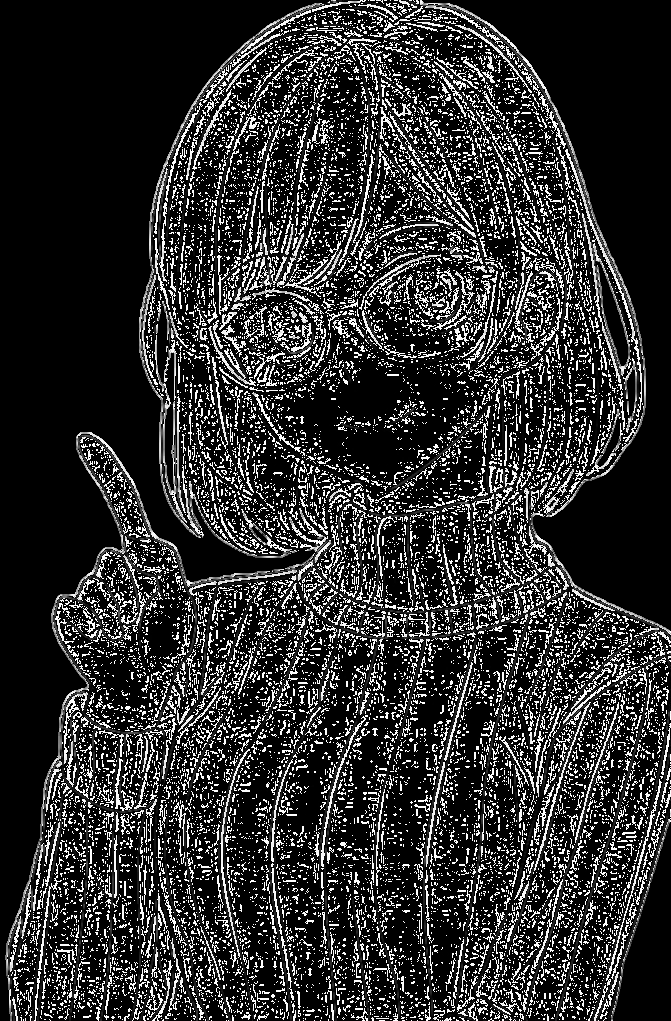
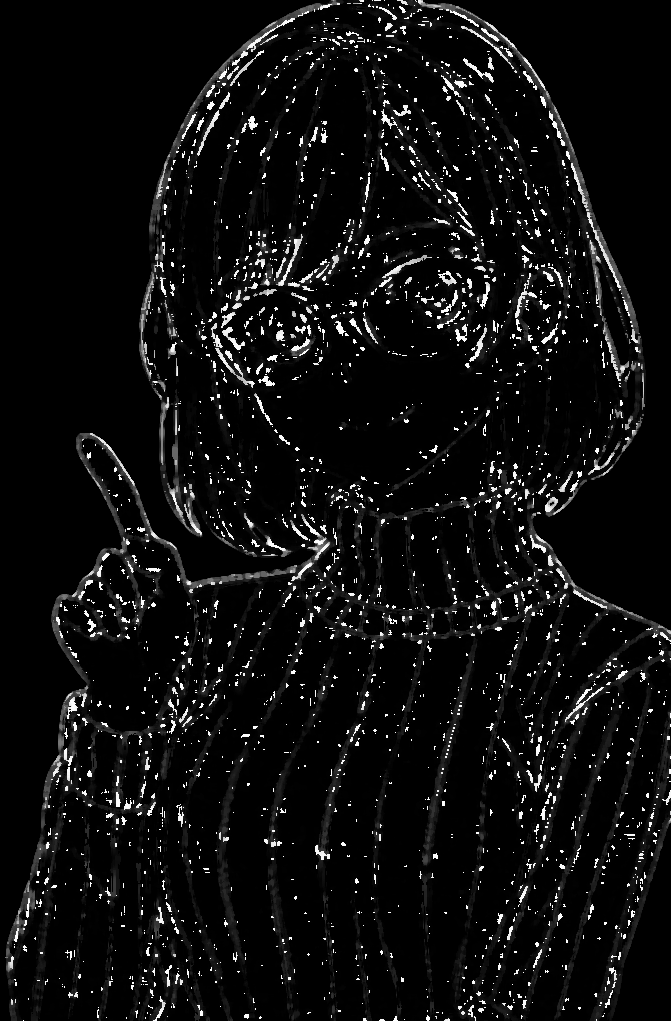
fix

Changed region(s): [[0.0, 0.0, 1.0, 1.0], [0.5663, 0.3947, 0.6259, 0.4251], [0.5067, 0.3947, 0.5365, 0.4251]]

diff --git a/python/opencv/filter2d/integral-image/sample04.py b/python/opencv/filter2d/integral-image/sample04.py
@@ -1,0 +1,52 @@
+#-*- coding:utf-8 -*-
+import cv2 as cv
+import numpy as np
+import time
+
+def integral_image_median_filter(src, ksize):
+    h, w = src.shape
+    d = ksize // 2
+    dst = np.zeros_like(src, dtype=np.float32)
+
+    # 積分画像を計算
+    integral = cv.integral(src, sdepth=cv.CV_64F)
+
+    for y in range(d, h - d):
+        for x in range(d, w - d):
+            # ウィンドウの境界を計算
+            x1 = x - d
+            x2 = x + d + 1
+            y1 = y - d
+            y2 = y + d + 1
+
+            # ウィンドウ内のピクセル数
+            window_size = (x2 - x1) * (y2 - y1)
+
+            # 積分画像を使ってウィンドウ内のピクセルの合計を計算
+            sum_pixels = integral[y2, x2] - integral[y1, x2] - integral[y2, x1] + integral[y1, x1]
+            mean_pixels = sum_pixels / window_size
+
+            # 中央値を簡易的に近似（平均値を使用）
+            dst[y, x] = mean_pixels
+
+    return np.uint8(dst)
+
+# 入力画像をグレースケールで読み込み
+gray = cv.imread("C:/github/sample/python/opencv/filter2d/integral-image/input.png", 0)
+
+# 処理時間の計測開始
+start_time = time.time()
+
+# 積分画像を用いた高速メディアンフィルタの適用
+dst = integral_image_median_filter(gray, ksize=5)
+
+# 処理時間の計測終了
+end_time = time.time()
+
+# 処理時間の表示
+print("Processing Time: {:.6f} seconds".format(end_time - start_time))
+
+# 結果を出力
+cv.imwrite("C:/github/sample/python/opencv/filter2d/integral-image/output.png", dst)
+
+# Processing Time: 0.764137 seconds

diff --git a/python/opencv/filter2d/integral-image/sample02.py b/python/opencv/filter2d/integral-image/sample02.py
@@ -1,0 +1,45 @@
+#-*- coding:utf-8 -*-
+import time
+import cv2 as cv
+import numpy as np
+
+def median_filter(src, ksize):
+    # 畳み込み演算をしない領域の幅
+    # width of skip
+    d = int((ksize-1)/2)
+    h, w = src.shape[0], src.shape[1]
+
+    # ndarray of destination
+    # 出力画像用の配列（要素は入力画像と同じ）
+    dst = src.copy()
+
+    for y in range(d, h - d):
+        for x in range(d, w - d):
+            # 近傍にある画素値の中央値を出力画像の画素値に設定
+            dst[y][x] = np.median(src[y-d:y+d+1, x-d:x+d+1])
+
+    return dst
+
+
+# load image (grayscale)
+# 入力画像をグレースケールで読み込み
+gray = cv.imread("C:/github/sample/python/opencv/filter2d/integral-image/input.png", 0)
+
+# 処理時間の計測開始
+start_time = time.time()
+
+# Spatial filtering
+# 方法1
+dst = median_filter(gray, ksize=5)
+
+# 処理時間の計測終了
+end_time = time.time()
+
+# output
+# 結果を出力
+cv.imwrite("C:/github/sample/python/opencv/filter2d/mediintegral-image/output.png", dst)
+
+# 処理時間の表示
+print("Processing Time: {:.6f} seconds".format(end_time - start_time))
+
+# Processing Time: 8.654974 seconds

diff --git a/python/opencv/filter2d/integral-image/sample03.py b/python/opencv/filter2d/integral-image/sample03.py
@@ -1,0 +1,24 @@
+#-*- coding:utf-8 -*-
+import cv2 as cv
+import numpy as np
+import time
+
+
+# 入力画像をグレースケールで読み込み
+gray = cv.imread("C:/github/sample/python/opencv/filter2d/integral-image/input.png", 0)
+
+# 処理時間の計測開始
+start_time = time.time()
+
+dst = cv.medianBlur(gray, ksize=5)
+
+# 処理時間の計測終了
+end_time = time.time()
+
+# 処理時間の表示
+print("Processing Time: {:.6f} seconds".format(end_time - start_time))
+
+# 結果を出力
+cv.imwrite("C:/github/sample/python/opencv/filter2d/integral-image/output.png", dst)
+
+# Processing Time: 0.004002 seconds
